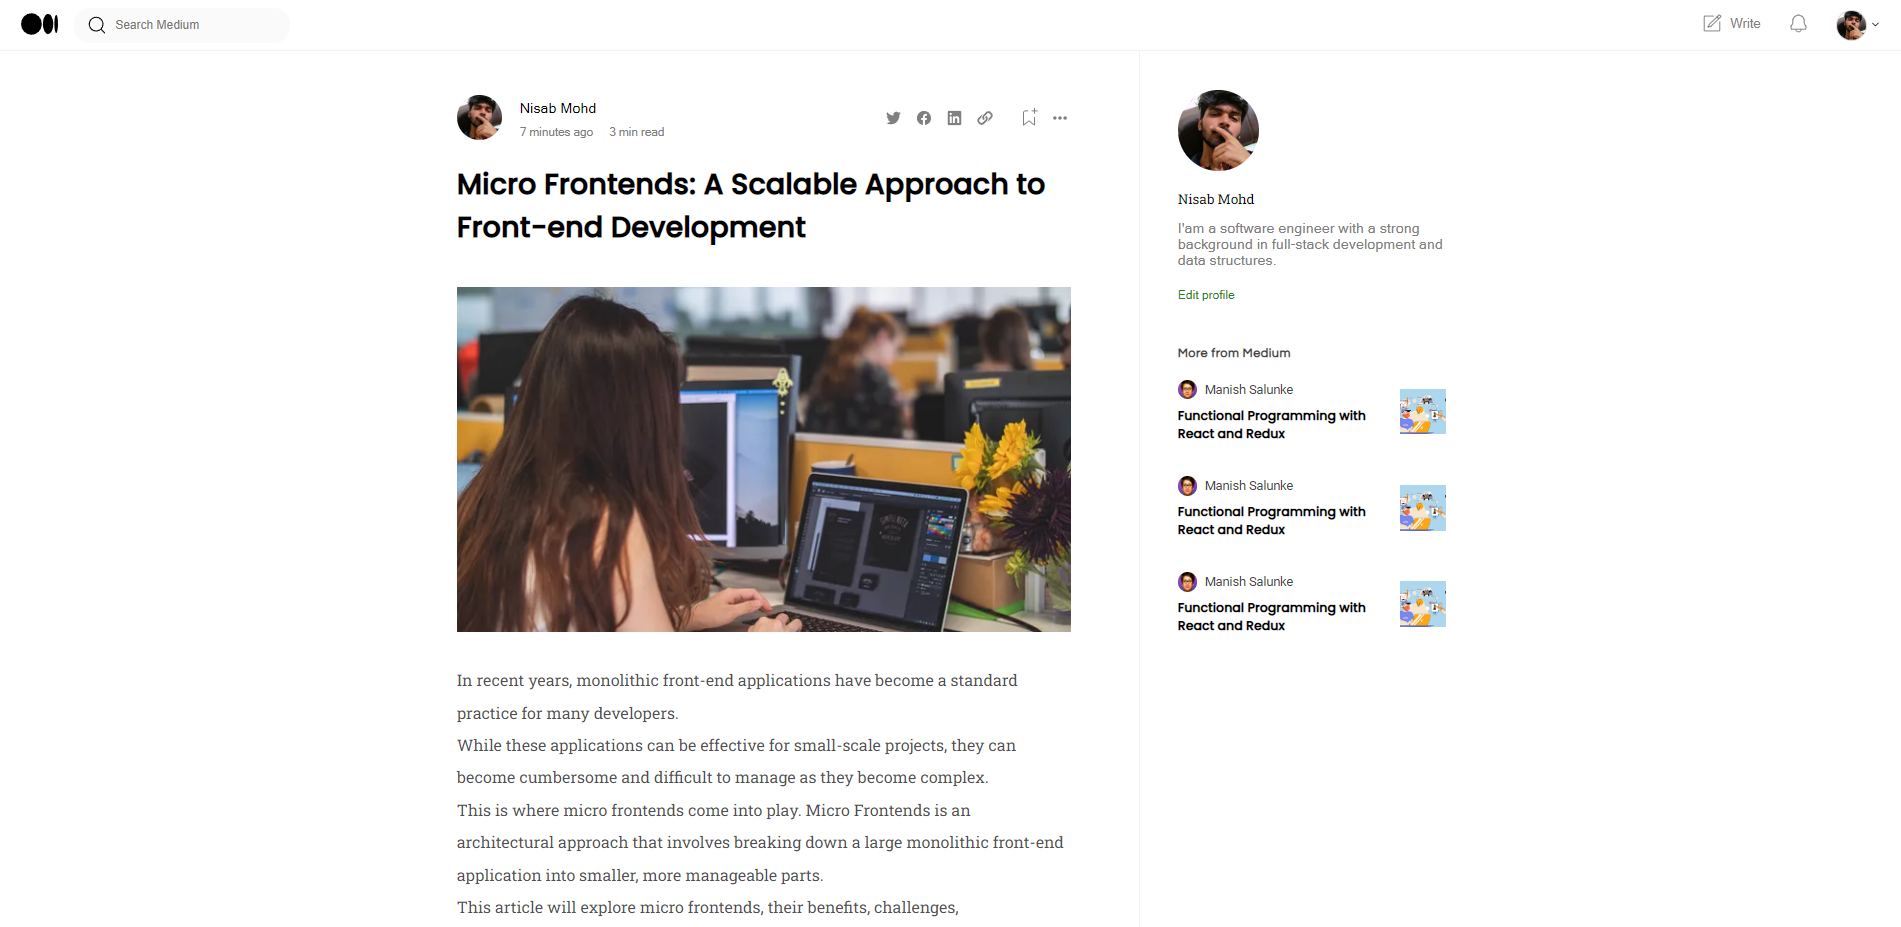
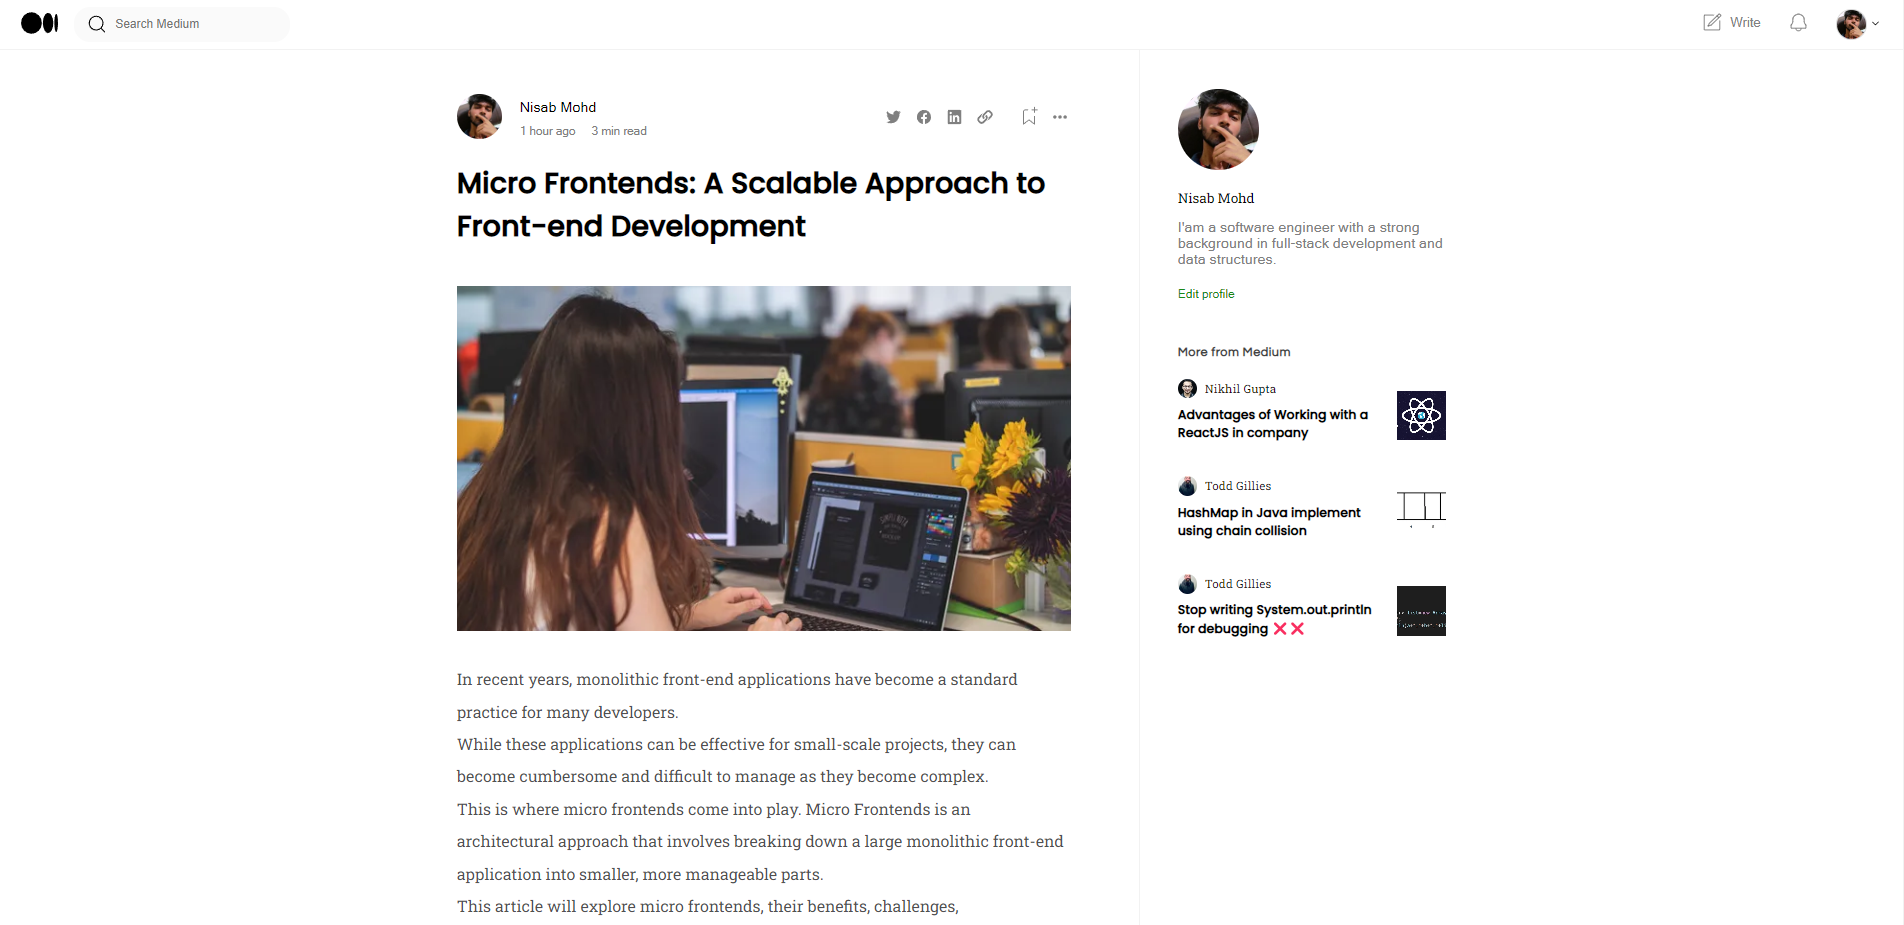
top picks on client

diff --git a/client/src/components/StoryCard.tsx b/client/src/components/StoryCard.tsx
@@ -1,8 +1,24 @@
+import { Link } from "react-router-dom";
+import "./storyCard.css";
 type StoryCardProps = {
   showImg: boolean;
+  username: string;
+  title: string;
+  userId: string;
+  postId: string;
+  image: string;
+  avatar: string;
 };
 
-export default function StoryCard({ showImg }: StoryCardProps) {
+export default function StoryCard({
+  showImg,
+  image,
+  postId,
+  title,
+  userId,
+  username,
+  avatar,
+}: StoryCardProps) {
   return (
     <div style={{ marginLeft: "8px", marginBottom: showImg ? "15px" : "0px" }}>
       <div
@@ -14,41 +30,56 @@ export default function StoryCard({ showImg }: StoryCardProps) {
           gap: "8px",
         }}
       >
-        <img
-          style={{ width: "22px", borderRadius: "50%" }}
-          src="https://miro.medium.com/v2/resize:fill:176:176/1*o4o2K-ND_COV5CXRaNorig@2x.jpeg"
-          alt=""
-        />
-        <p
+        <Link to={`/user/${userId}`}>
+          <img
+            style={{ width: "22px", borderRadius: "50%" }}
+            src={avatar}
+            alt=""
+          />
+        </Link>
+        <Link
+          className="font"
+          to={`/user/${userId}`}
           style={{
-            fontFamily: "Roboto",
-            fontSize: "13.95px",
-            fontWeight: "500",
-            color: "rgb(64 64 64)",
+            fontFamily: "Roboto Slab",
+            fontSize: "12.75px",
+            letterSpacing: "0.25px",
+            color: "rgb(29 29 29)",
+            textDecoration: "none",
+            marginTop: "-4px",
           }}
         >
-          Manish Salunke
-        </p>
+          {username}
+        </Link>
       </div>
       <div
         className="post_details"
         style={{ display: "flex", flexDirection: "row" }}
       >
-        <p
+        <Link
+          to={`/blog/${postId}`}
           style={{
             fontFamily: "Poppins",
             fontWeight: "bolder",
             fontSize: "14px",
-            marginTop: "8px",
+            marginTop: "5px",
+            marginRight: showImg ? "10px" : 0,
+            color: "inherit",
+            textDecoration: "none",
           }}
         >
-          Functional Programming with React and Redux
-        </p>
+          {title}
+        </Link>
         {showImg && (
           <div className="img">
             <img
-              style={{ marginTop: "-12px", width: "51px" }}
-              src="https://miro.medium.com/v2/resize:fill:101:101/1*sKKbnXiHhuHwgJxosQLaQQ.png"
+              style={{
+                marginTop: "-12px",
+                width: "55px",
+                height: "55px",
+                objectFit: "cover",
+              }}
+              src={image}
               alt=""
             />
           </div>

diff --git a/client/src/components/TopPicks.tsx b/client/src/components/TopPicks.tsx
@@ -1,3 +1,6 @@
+import { useQuery } from "@tanstack/react-query";
+import { url } from "../baseUrl";
+import { httpRequest } from "../interceptor/axiosInterceptor";
 import StoryCard from "./StoryCard";
 
 type TopPicksProps = {
@@ -6,6 +9,11 @@ type TopPicksProps = {
 };
 
 export default function TopPicks({ text, showImg = false }: TopPicksProps) {
+  const { data: response } = useQuery({
+    queryFn: () => httpRequest.get(`${url}/post/suggest/posts`),
+    queryKey: ["suggest", "post"],
+  });
+
   return (
     <div style={{ width: "90%", marginLeft: "auto" }}>
       <h5
@@ -24,9 +32,20 @@ export default function TopPicks({ text, showImg = false }: TopPicksProps) {
         className="story_top"
         style={{ display: "flex", flexDirection: "column", gap: "22px" }}
       >
-        <StoryCard showImg={showImg} />
-        <StoryCard showImg={showImg} />
-        <StoryCard showImg={showImg} />
+        {response?.data.map((item: any) => {
+          return (
+            <StoryCard
+              avatar={item.user.avatar}
+              showImg={showImg}
+              key={item.post._id}
+              image={item.post.image}
+              postId={item.post._id}
+              title={item.post.title}
+              userId={item.user._id}
+              username={item.user.name}
+            />
+          );
+        })}
       </div>
     </div>
   );

diff --git a/server/src/controllers/post.controller.ts b/server/src/controllers/post.controller.ts
@@ -86,7 +86,16 @@ export const savePost = asyncHandler(async (req, res, next) => {
 });
 
 export const suggestTopPosts = asyncHandler(async (req, res, next) => {
-  const posts = await Post.find({}).sort({ votes: -1 }).limit(3);
+  const { userId } = req;
+  const user = await User.findOne({ _id: userId });
+  const ignoreList = user?.ignore ?? [];
+  const posts = await getPostsWithUser(
+    Post.find({
+      $and: [{ userId: { $ne: userId } }, { _id: { $nin: ignoreList } }],
+    })
+      .sort({ votes: -1 })
+      .limit(3)
+  );
   res.send(posts);
 });
 
@@ -133,6 +142,7 @@ export const vote = asyncHandler(async (req, res, next) => {
   res.send({ success: post.modifiedCount == 1 });
 });
 
+// pagination + sort todo
 export const comment = asyncHandler(async (req, res, next) => {
   const { postId } = req.params;
   const { userId } = req;
@@ -143,6 +153,9 @@ export const comment = asyncHandler(async (req, res, next) => {
   );
   res.send({ success: post.modifiedCount == 1 });
 });
+
+// more from todo
+export const morefrom = asyncHandler((req, res, next) => {});
 
 async function getPostsWithUser(q: any) {
   const posts = await q.sort({ _id: -1 });

diff --git a/server/src/routers/post.ts b/server/src/routers/post.ts
@@ -34,6 +34,6 @@ router.route("/ignore/:postId").patch(isAuthenticated, ignorePost);
 
 router.route("/suggest/topics").get(suggestTopics);
 
-router.route("/suggest/posts").get(suggestTopPosts);
+router.route("/suggest/posts").get(isAuthenticated, suggestTopPosts);
 
 export default router;

diff --git a/client/src/components/storyCard.css b/client/src/components/storyCard.css
@@ -1,0 +1,6 @@
+@import url('https://fonts.googleapis.com/css2?family=Roboto+Slab:wght@500&display=swap');
+
+.font {
+    font-family: 'Roboto Slab', serif !important;
+    color: rgb(15 9 9) !important;
+}
